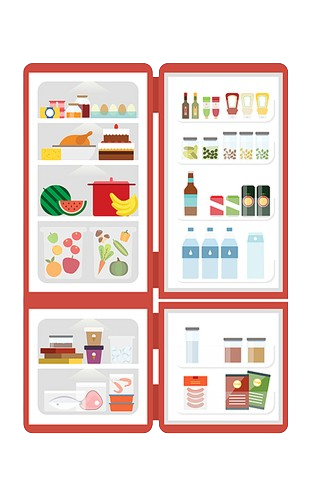
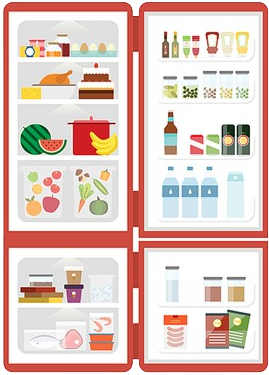
feature: 메인 페이지 모바일 ui 처리(반응형)

diff --git a/src/app/components/IngredientListModal.tsx b/src/app/components/IngredientListModal.tsx
@@ -50,10 +50,10 @@ export default function IngredientListModal() {
 
   return (
     <motion.div
-      className='absolute top-50 right-5 z-20 text-md text-black w-70 h-130 bg-white rounded-[15px] opacity-95 p-4'
-      initial={{ opacity: 0, scale: 0.9, x: -50, y: -140 }}
+      className='absolute top-40 left-15 z-20 text-md text-black w-70 h-100 bg-white rounded-[15px] opacity-95 p-4'
+      initial={{ opacity: 0, scale: 0.9, x: 30, y: -140 }}
       animate={{ opacity: 1, scale: 1, x: 0, y: 0 }}
-      transition={{ duration: 0.25, ease: 'easeOut' }}
+      transition={{ duration: 0.4, ease: 'easeOut' }}
     >
       <div className='h-full'>
         <div className='relative w-full h-full'>

diff --git a/src/app/page.tsx b/src/app/page.tsx
@@ -30,11 +30,11 @@ export default function Home() {
           alt='Fridge'
           width={120}
           height={200}
-          className='absolute top-20 left-5 z-10 cursor-pointer'
+          className='absolute top-3 left-40 z-10 cursor-pointer'
           onClick={handleFridgeClick}
         />
-        <div className='absolute top-70 right-15 z-20 font-semibold text-md animate-pulse duration-300 text-black'>
-          👈 냉장고를 터치하세요!!
+        <div className='absolute top-30 left-5 z-20 font-semibold text-sm animate-pulse duration-300 text-black'>
+          냉장고를 터치해!! 👉
         </div>
       </div>
     </>

diff --git a/src/app/(ingredients)/ingredients/page.tsx b/src/app/(ingredients)/ingredients/page.tsx
@@ -20,9 +20,9 @@ export default function IngredientsPage() {
         <Image
           src={Fridge_open}
           alt='Fridge'
-          width={260}
+          width={210}
           height={200}
-          className='absolute top-10 left-3 z-10 cursor-pointer'
+          className='absolute top-5 left-39 z-10 cursor-pointer'
         />
 
         {/* 재료 리스트 모달 */}
